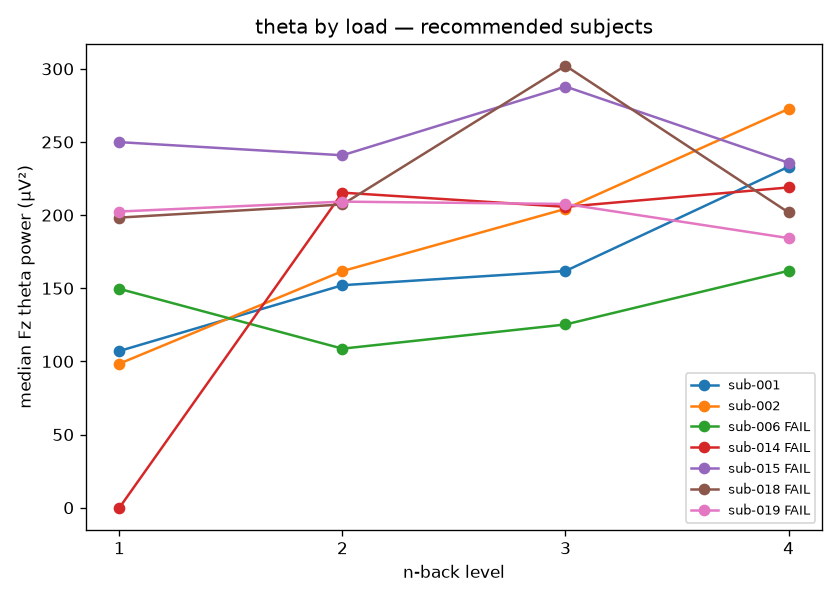
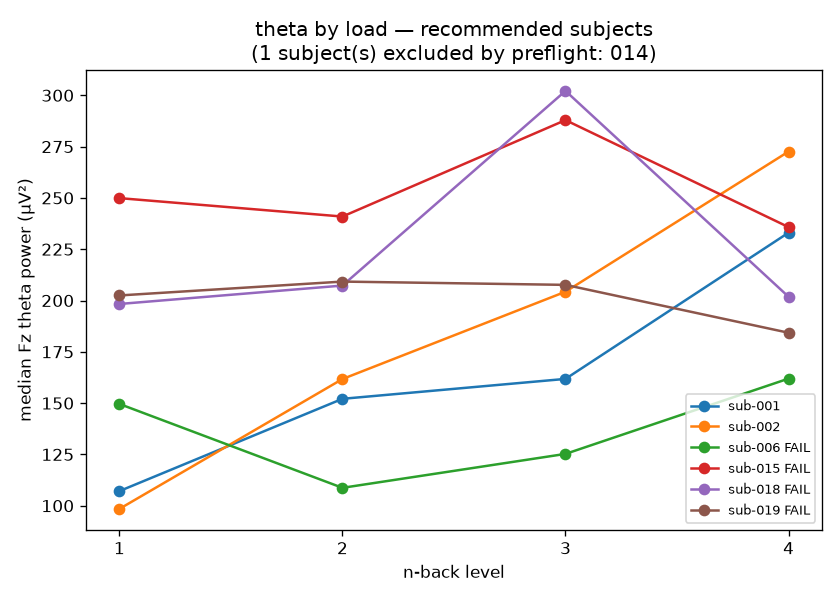
evidence: 按终审修复更新（--all 逐被试 QC、014 排除；A4 新 sha；tail_s 语义）

diff --git a/evidence/README.md b/evidence/README.md
@@ -1,6 +1,6 @@
 # IT1 + IT2 验收证据
 
-日期：2026-09-09 ｜ 代码版本（git）：`460f2b5` ｜ 数据：ds007169（sub-001，250 Hz，Fz）
+日期：2026-09-09 ｜ 代码版本（git）：`7d4751c` ｜ 数据：ds007169（250 Hz，Fz）
 
 本阶段目标是**端到端跑通管线**（公开数据 1x 回放 + 离线 theta），**不评估疗效**。
 
@@ -29,7 +29,8 @@ diff det1/.../replay.jsonl det2/.../replay.jsonl   → IDENTICAL
 ```
 
 - `replay.jsonl` 均为 164 行，sha256 完全一致：
[2 lines of base64/hex data omitted]
+- summary 行 `"tail_s": 0.0`：限时回放在段边界停止，没有不足一段的残尾（`tail_s` 只表示“本次纳入切分的样本中不足一段的部分”；只有全量回放才是源文件末尾 0.112 s）。
 - 墙钟量（`wall_started_iso` / `wall_elapsed_s` / `rate_ratio`）只写在 `run.json`，不进数据侧 `replay.jsonl`，故数据侧跨运行字节一致。
 
 ## IT2：theta-probe（离线 Fz theta 负荷检验）
@@ -45,17 +46,19 @@ diff det1/.../replay.jsonl det2/.../replay.jsonl   → IDENTICAL
 
 - `IT2-theta-多被试汇总.png`：`uv run theta-probe --all`（纯参考，退出码恒 0）。
 
+  逐被试中位数（µV²）：
+
   | sub | 结果 | 1 | 2 | 3 | 4 |
   |---|---|---|---|---|---|
   | 001 | PASS | 107.1 | 152.1 | 161.8 | 233.1 |
   | 002 | PASS | 98.5 | 161.7 | 204.3 | 272.6 |
   | 006 | FAIL | 149.6 | 108.7 | 125.3 | 161.9 |
-  | 014 | FAIL | **0.0** | 215.4 | 205.7 | 218.9 |
   | 015 | FAIL | 249.9 | 240.9 | 287.9 | 235.8 |
   | 018 | FAIL | 198.3 | 207.3 | 302.1 | 201.8 |
   | 019 | FAIL | 202.5 | 209.2 | 207.6 | 184.3 |
+  | 014 | **QC 排除** | — | — | — | — |
 
-  硬门控只对 sub-001；其余仅作异质性参考，不影响本阶段验收。sub-014 的 1-back 中位数恰为 0 µV² 是被试数据特性，留待 IT3+ 排查（本阶段不证疗效）。
+  硬门控只对 sub-001；其余数值仅作异质性参考，不影响本阶段验收。`--all` 对每个被试先跑 preflight，单个失败只标记 `QC FAIL，跳过` 并继续，整批恒退出 0。**sub-014 被单位/幅值硬门拦下**：Fz 1–30Hz 带通后 std=1888.4 µV（正常窗 5–300）；同数据集其余 6 人 std 在 41.9–112.8 µV，单位（µV）本身确认无误，故 014 是极端/异常被试（早先在绕过 preflight 的版本里它的 1-back 中位数曾显示为 0 µV²），其取舍留待 IT3+（本阶段不证疗效）。
 
 ## 经验性发现（实测，非文档反推）
 
